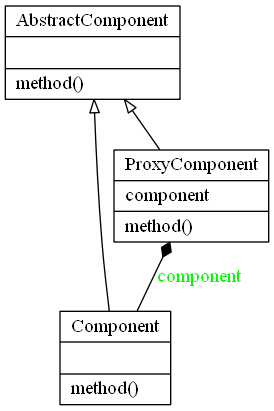
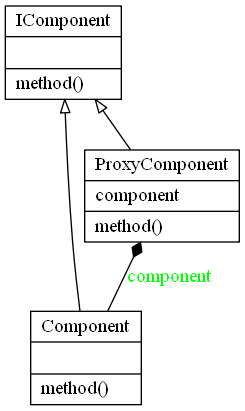
edited proxy

diff --git a/proxy/proxy.py b/proxy/proxy.py
@@ -1,30 +1,31 @@
 from abc import ABCMeta, abstractmethod
 import datetime
 
-class AbstractComponent(metaclass=ABCMeta):
+
+class IComponent(metaclass=ABCMeta):
     @staticmethod
     @abstractmethod
     def method(self):
         """A method to implement"""
 
 
-class Component(AbstractComponent):
+class Component(IComponent):
     def method(self):
         print("The method has been called")
 
 
-class ProxyComponent(AbstractComponent):
+class ProxyComponent(IComponent):
     def __init__(self):
         self.component = Component()
 
     def method(self):
-        f = open("log.txt",'a')
+        f = open("log.txt", "a")
         f.write("%s : method was proxied\n" % (datetime.datetime.now()))
         self.component.method()
 
 
-COMPONENT = Component()
-COMPONENT.method()
+COMPONENT1 = Component()
+COMPONENT1.method()
 
-COMPONENT = ProxyComponent()
-COMPONENT.method()
+COMPONENT2 = ProxyComponent()
+COMPONENT2.method()

diff --git a/proxy/README.md b/proxy/README.md
@@ -1,18 +1,17 @@
 # Proxy Design Pattern
 
-The proxy design pattern is a class functioning as an interface to another object.
+The proxy design pattern is a class functioning as an interface to another class or object.
 
-A proxy could be for anything, such as a network connection, an object in memory, a file, or anything else need to provide an abstraction between.
+A proxy could be for anything, such as a network connection, an object in memory, a file, or anything else you need to provide an abstraction between.
 
 It is a wrapper called by a client to access the real underlying object.
 
-Addition functionality can be provided at in the proxy abstraction if required.
+Additional functionality can be provided at in the proxy abstraction if required.
 eg, caching, authorization, validation, lazy initialization, logging.
-
-Use the Proxy pattern if you want to control access to the object, or add additional functionality without modifying the original object.
 
 The proxy should implement the subject interface as much as practicable so that the proxy and subject appear identical to the client.
 
-The Proxy Pattern may occasionally also be referred to as Monkey Patching or Object Augmentation
+The Proxy Pattern may occasionally also be referred to as Monkey Patching or 
+Object Augmentation
 
 
